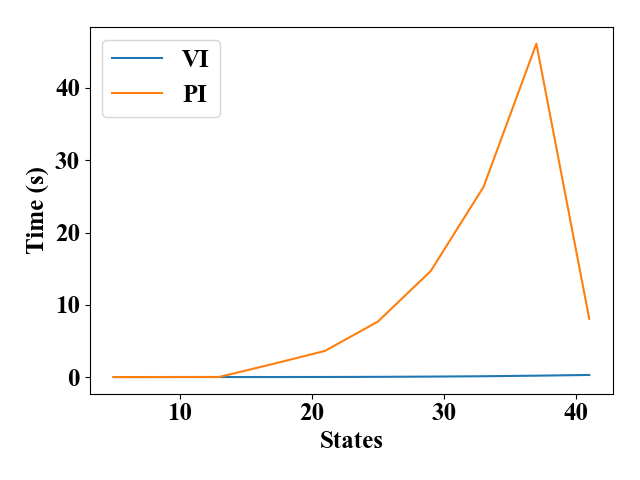
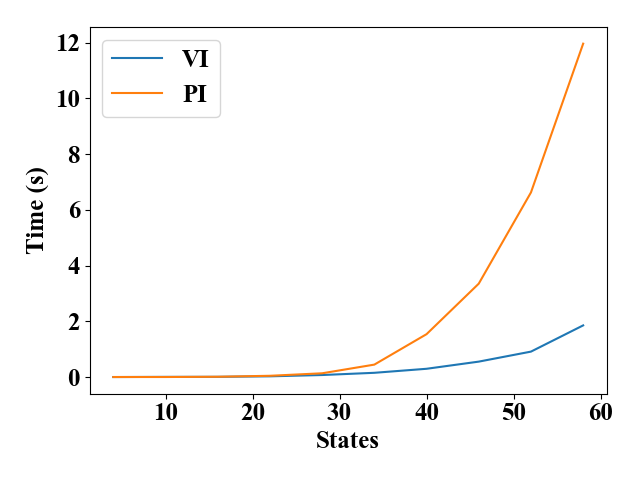
Get LESS confused!

diff --git a/a4/vary_lake_size.py b/a4/vary_lake_size.py
@@ -6,6 +6,16 @@ import numpy as np
 import mdptoolbox, mdptoolbox.example
 import matplotlib.pyplot as plt
 
+#8x8
+#SFFFFFFF
+#FFFFFFFF
+#FFFHFFFF
+#FFFFFHFF
+#FFFHFFFF
+#FHHFFFHF
+#FHFFHFHF
+#FFFHFFFG
+
 def plot_stuff(x, y1, y2, y1_label, y2_label, xlabel, ylabel, name):
     plt.clf()
     font = { 'family': 'Times New Roman', 'size': 18 }
@@ -21,23 +31,24 @@ def plot_stuff(x, y1, y2, y1_label, y2_label, xlabel, ylabel, name):
 
 D = 0.95
 LET = 'HFSG'
+# LET = ' FSG'
 
 n_vals = 10
 results = np.zeros((n_vals, 6))
 for i in range(n_vals):
-    S = 4 * (i + 1) + 1
-    np_map = np.zeros((S, S), dtype=int)
+    S = 6 * i + 4
+    np_map = np.ones((S, S), dtype=int)
     toggle = True
-    for j in range(S):
+    hole_len = int(S * 0.3)
+    offset = S - hole_len
+    for j in range(S - 2):
         if j % 2 == 0:
-            np_map[j] = np.ones(S, dtype=int)
-        else:
-            idx = S - 1 if toggle else 0
-            np_map[j,idx] = 1
+            for k in range(hole_len):
+                np_map[j,(offset+k)%S] = 0
             toggle = not toggle
+            offset += int(S * 0.6)
     np_map[0,0] = 2
     np_map[S-1,S-1] = 3
-    print(np_map)
 
     custom_map = []
     for j in range(S):
@@ -45,6 +56,11 @@ for i in range(n_vals):
         for k in range(S):
             mystr += LET[np_map[j,k]]
         custom_map.append(mystr)
+
+#    for line in custom_map:
+#        print(line)
+#    print('')
+#    continue
 
     env = gym.make('FrozenLake-v0', desc=custom_map, is_slippery=True)
     nA, nS = env.nA, env.nS
@@ -64,11 +80,13 @@ for i in range(n_vals):
     print('R.shape', R.shape)
 
     vi = mdptoolbox.mdp.ValueIteration(P, R, D)
-    # vi.setVerbose()
+    vi.setVerbose()
+    print('================ VI,', 'S =', S)
     vi.run()
 
     pi = mdptoolbox.mdp.PolicyIteration(P, R, D)
-    #pi.setVerbose()
+    pi.setVerbose()
+    print('================ PI,', 'S =', S)
     pi.run()
 
     results[i,0] = S
